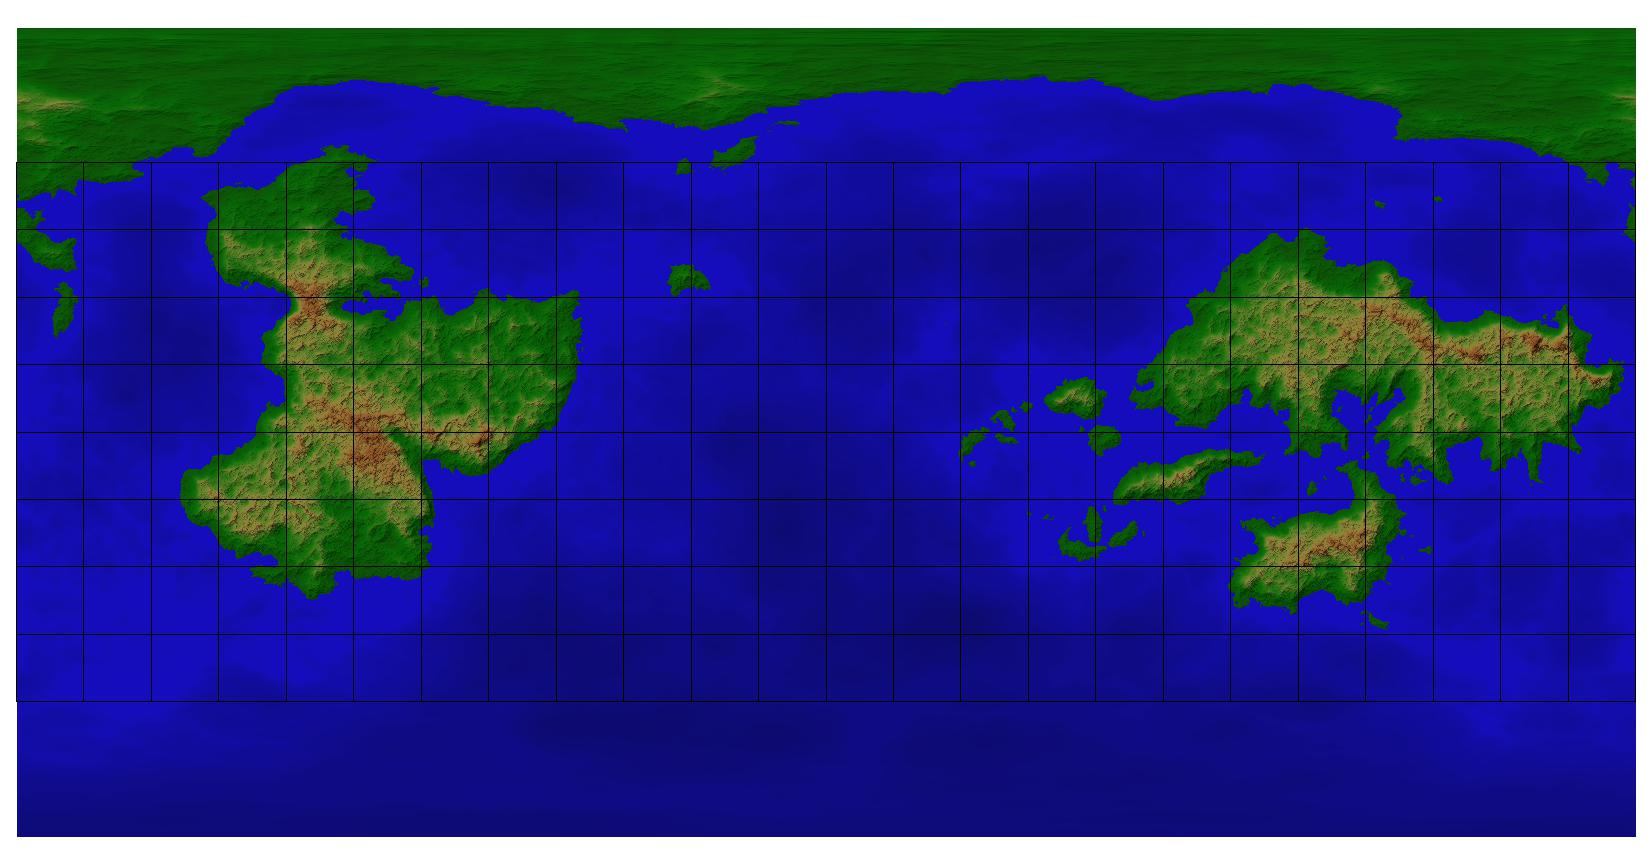
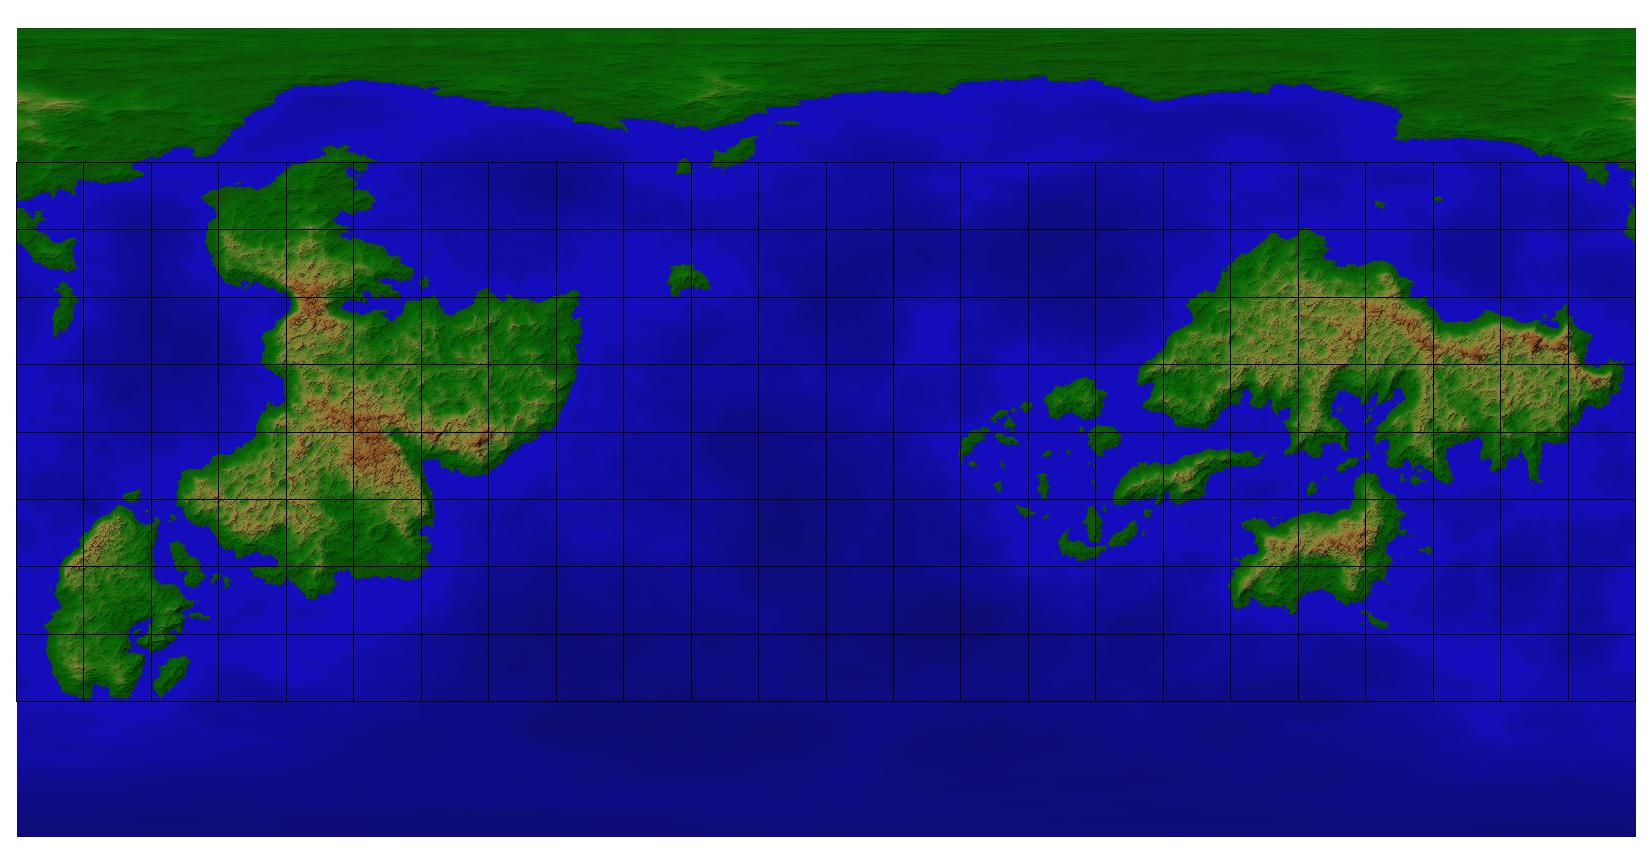
edited east side and added back southwest island

diff --git a/Readme.md b/Readme.md
@@ -33,4 +33,6 @@ Right now, the continents are huge and clearly just a fractal generated mess. Ba
 
 ![Continental Edit Plan](Oct_Map_SketchPlan.jpg)
 
-From there, the idea is to lower, but not really flatten out the bulbous mountains and remove or add terrain as needed. Go slowly and save often. I often find I haven't saved as frequently as I wish I had. The undo buffer only goes so far, and I think that is less far the more detailed the edit size.
+From there, the idea is to lower, but not really flatten out the bulbous mountains and remove or add terrain as needed. Go slowly and save often. I often find I haven't saved as frequently as I wish I had. The undo buffer only goes so far, and I think that is lessened the more detailed the edit size.
+
+Inevitably I end up wanting back some terrain that I earased early on. I thought at one point if I saved maps along the way I could cut/paste say a continent or island from an old one to a new one. Nope. Not easily anyway. There is a tool to save and load selections, but I can't get it to work across maps. Boo!
